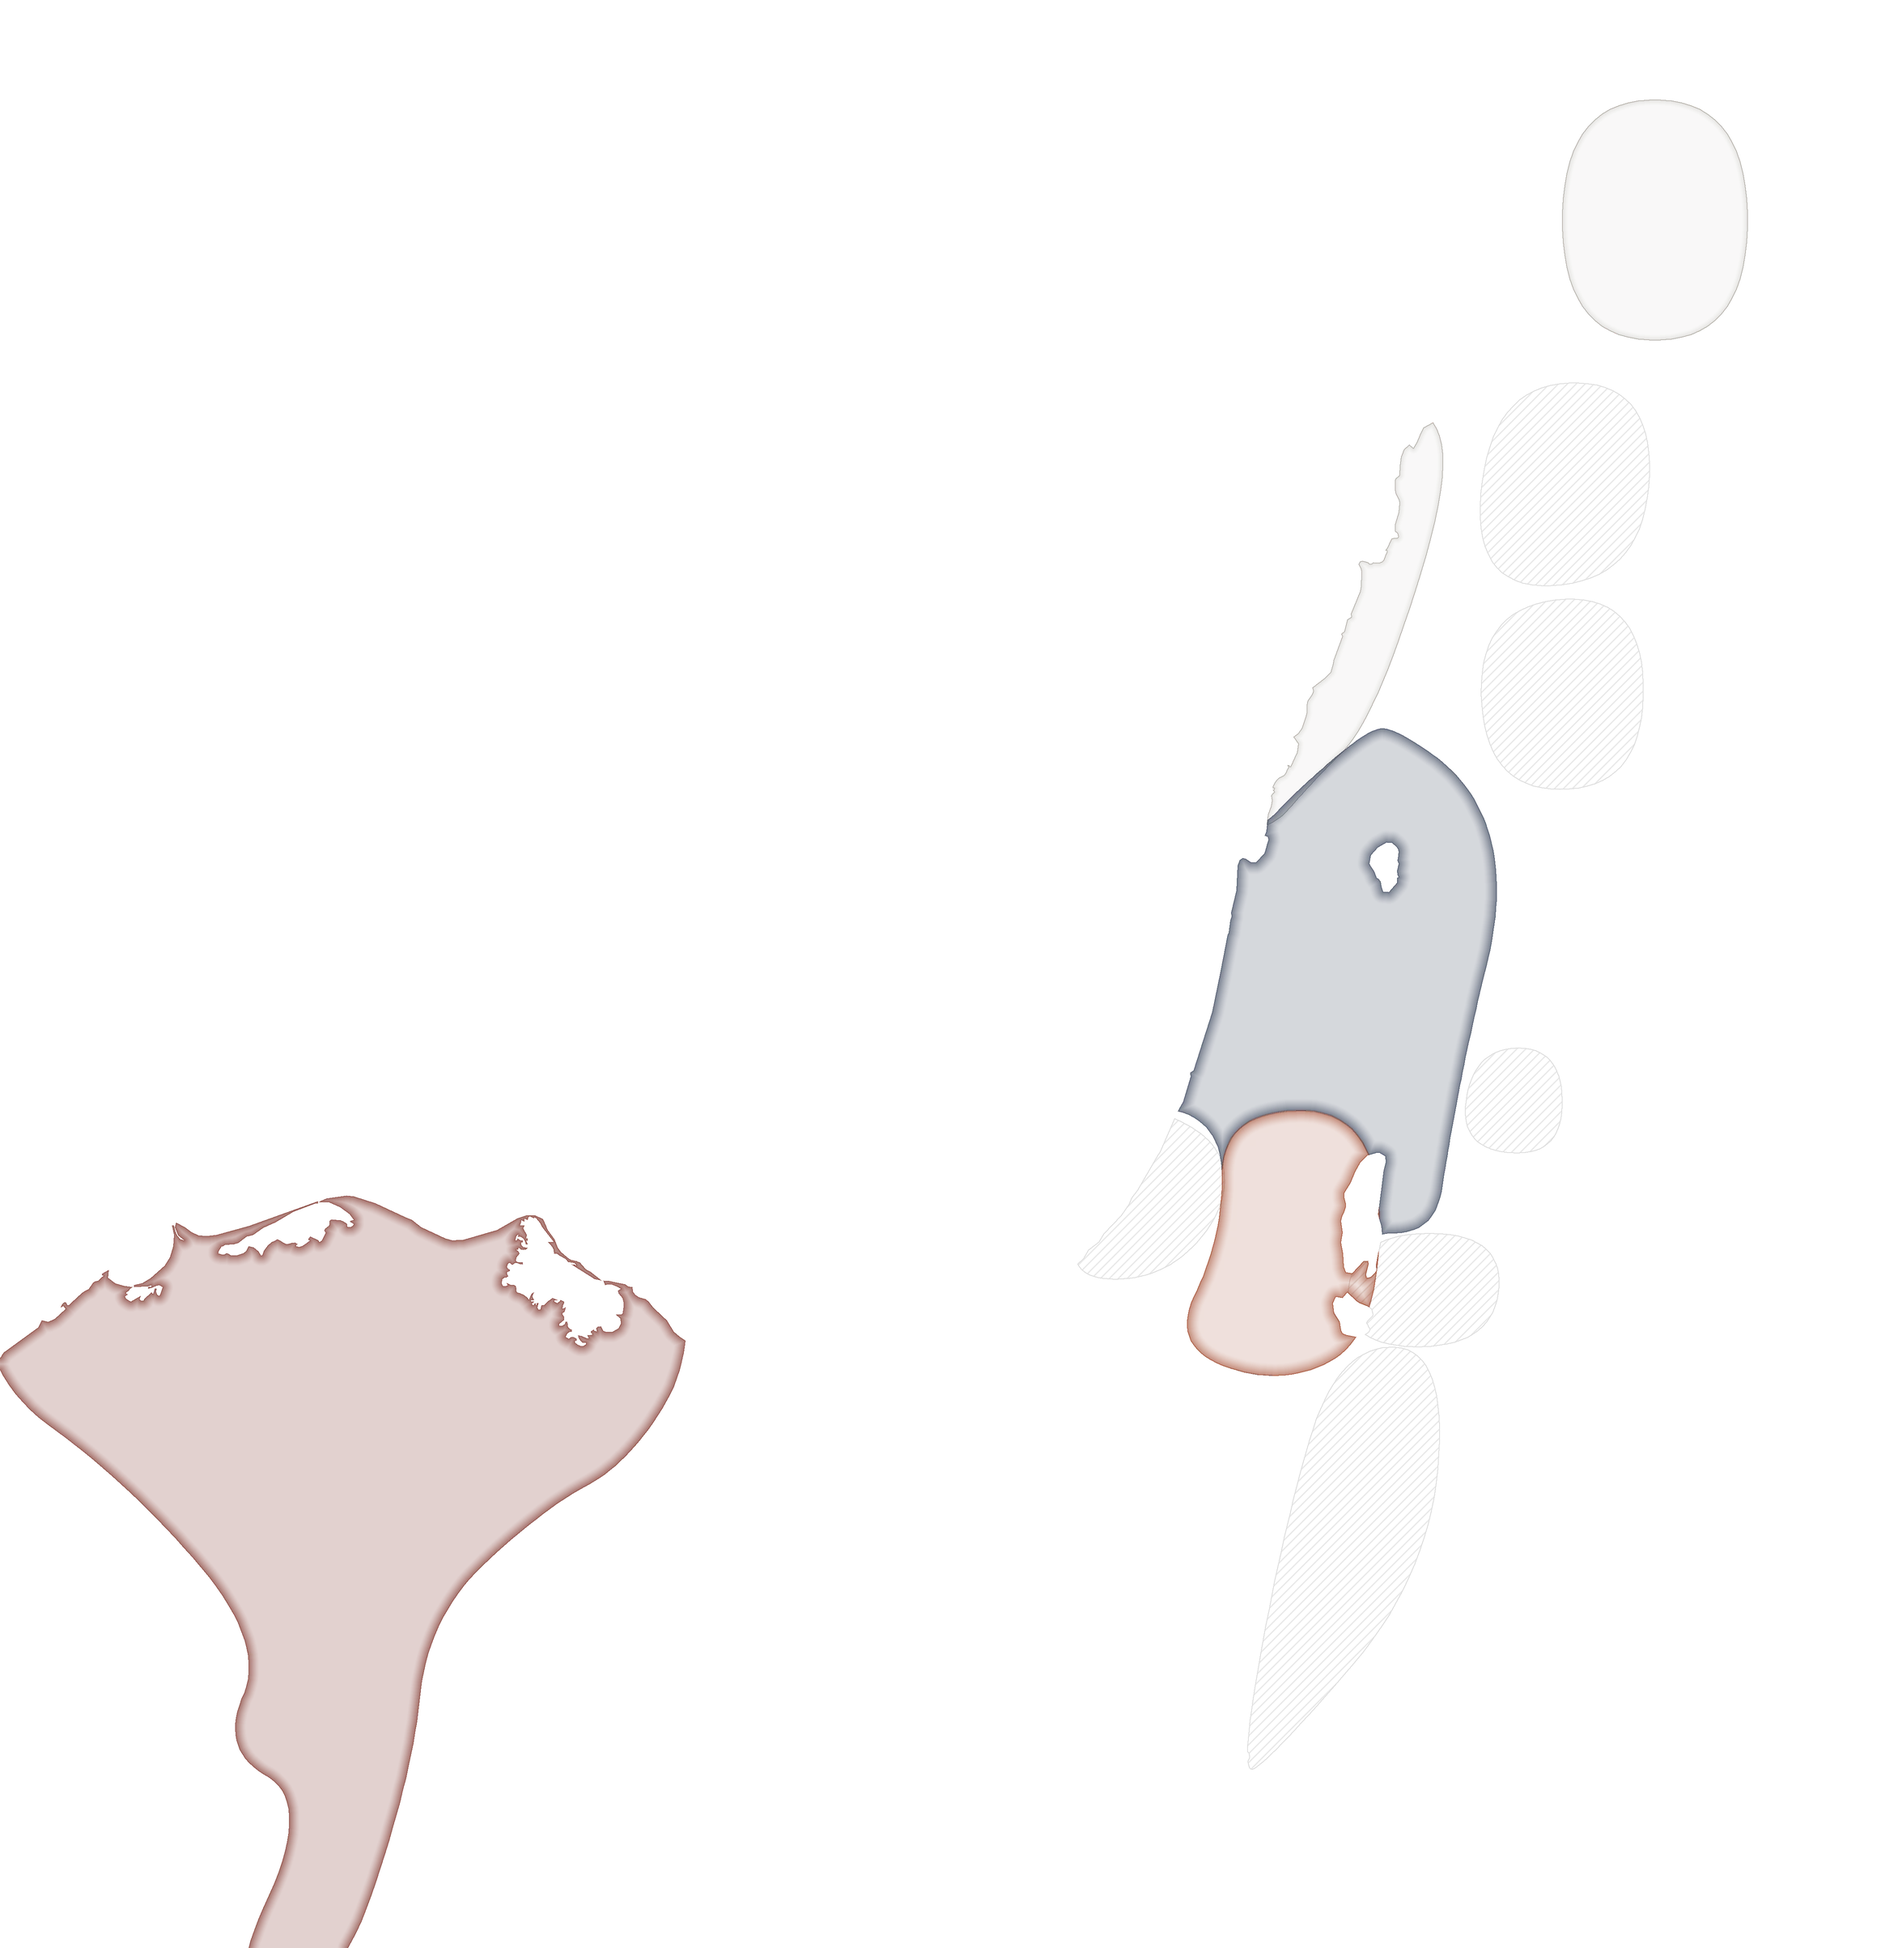
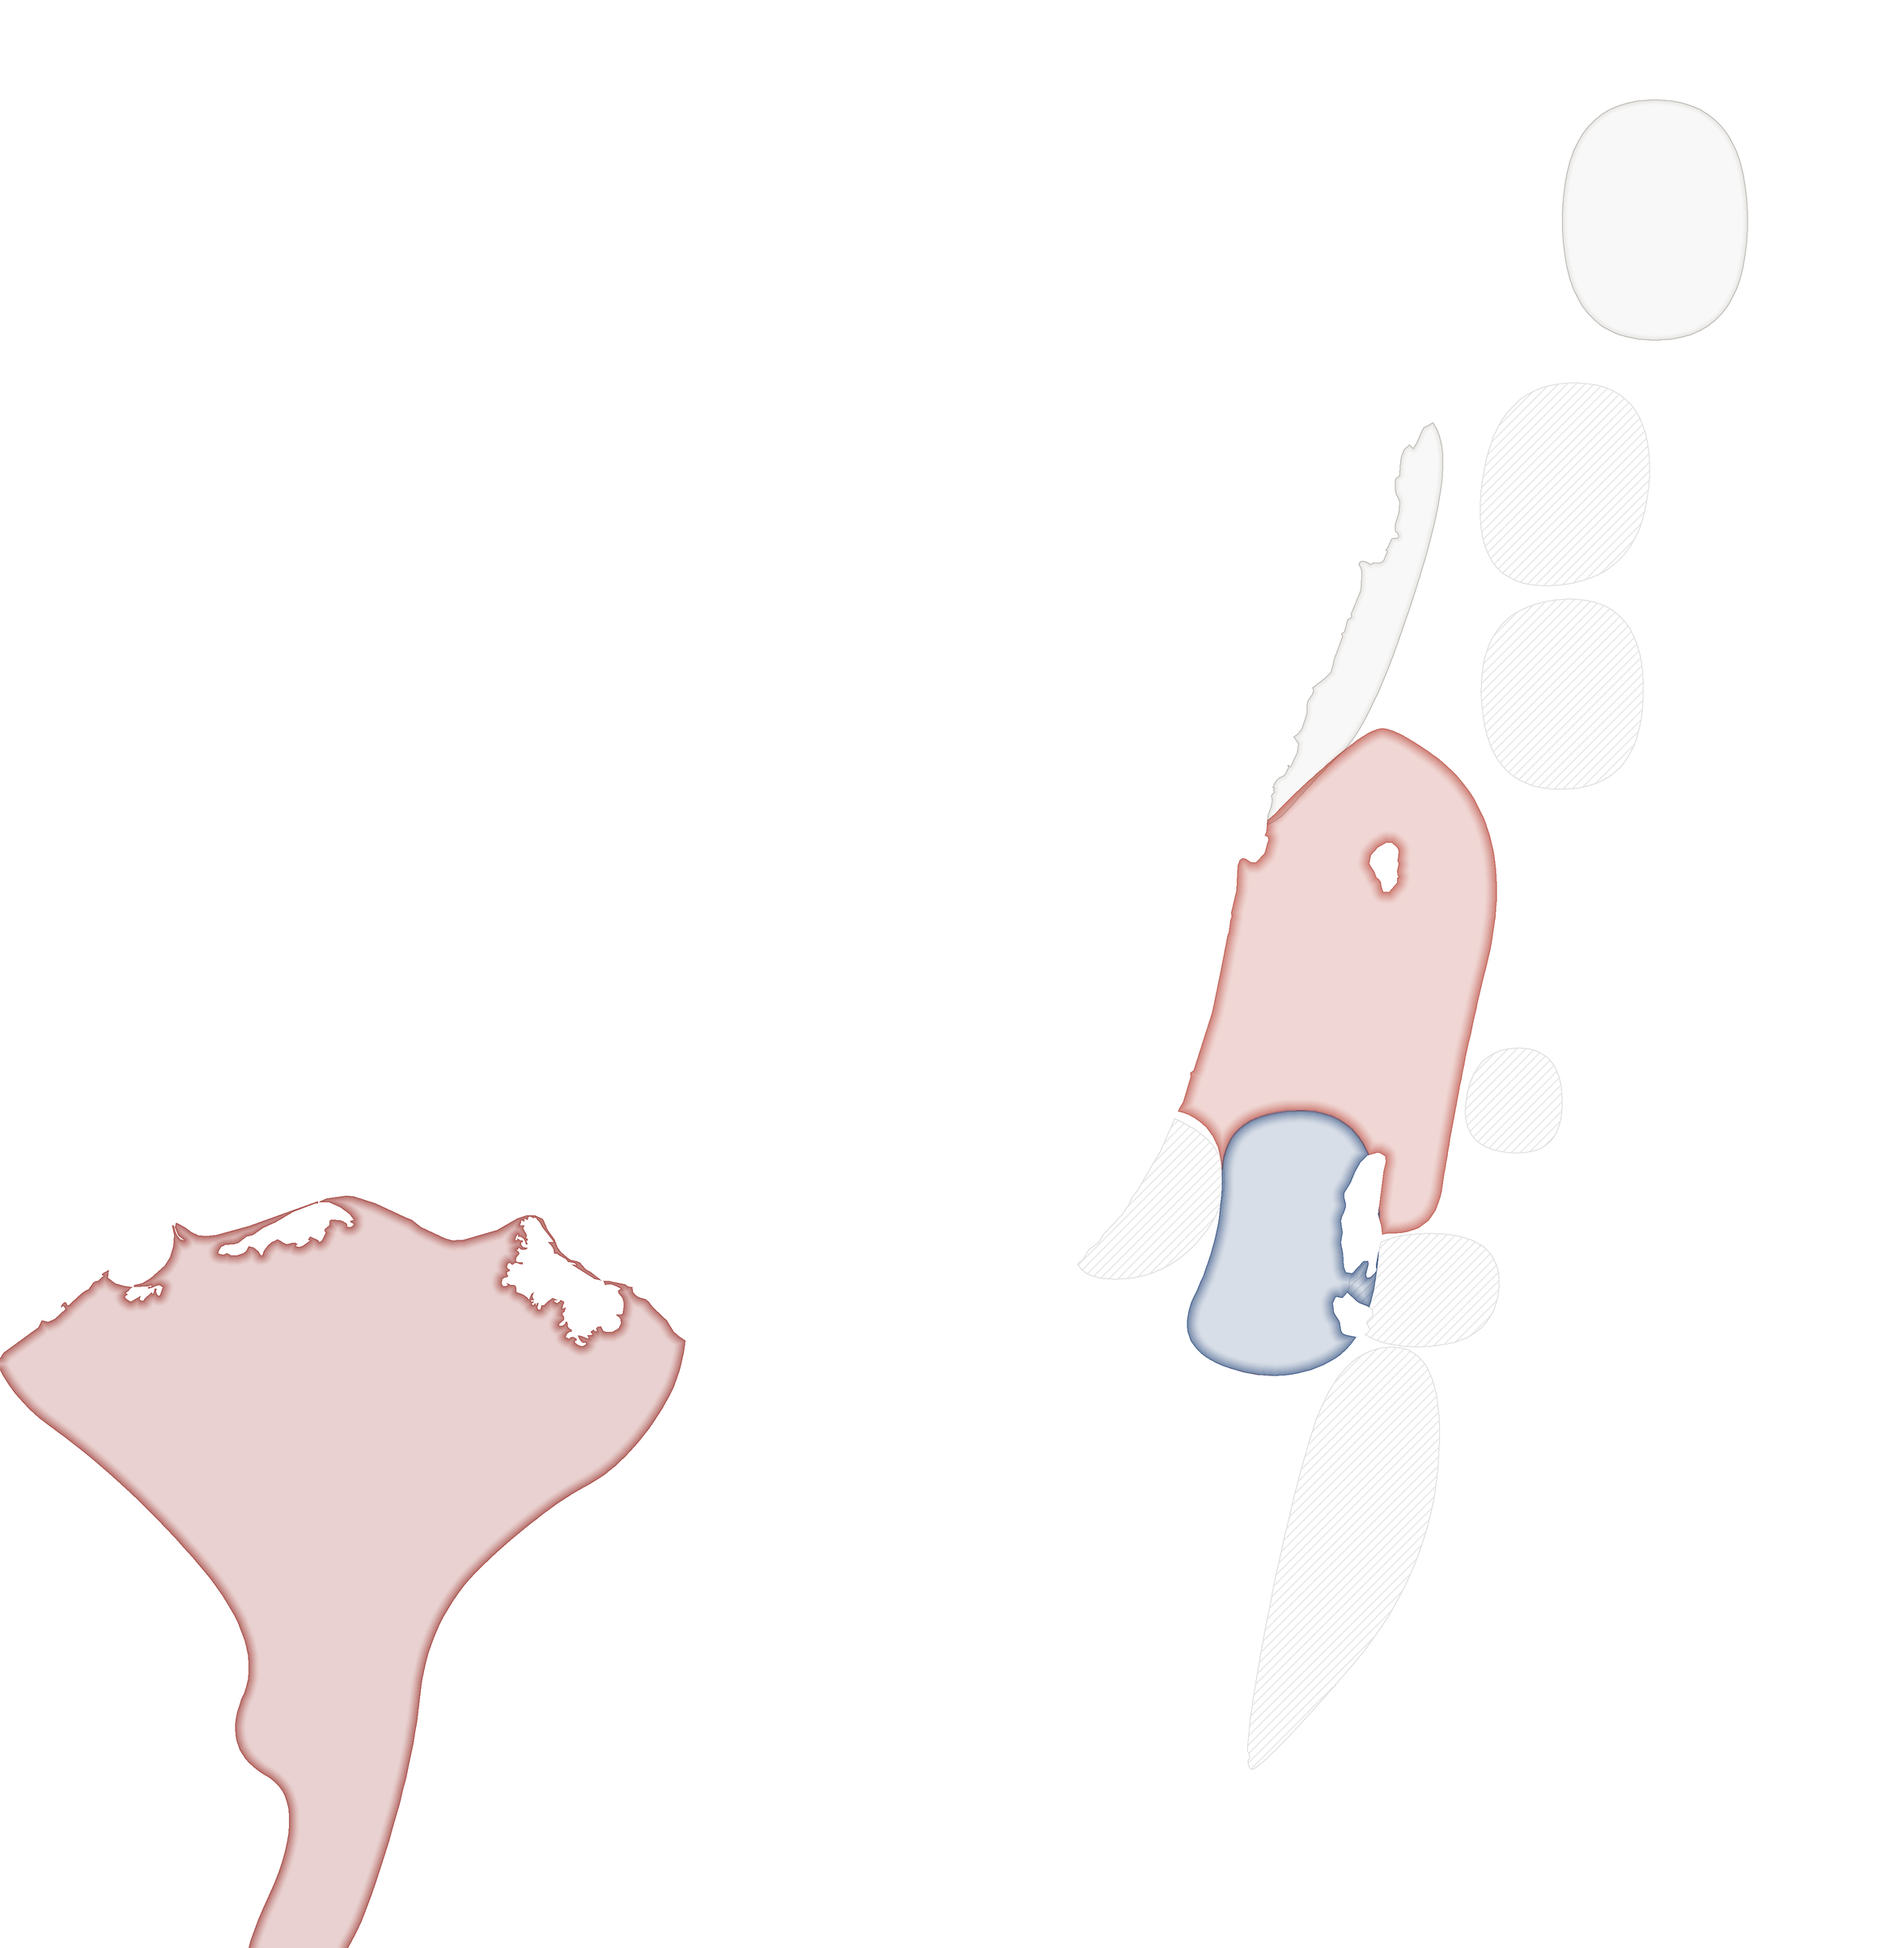
צבעים: הממלכה בכחול, אויבים באדום, סדקים בכתום
Claude-Session: https://claude.ai/code/session_01TMkXnQFEdiWYuQNCrRXMuX

Changed region(s): [[0.6226, 0.3741, 0.8094, 0.717]]

diff --git a/index.html b/index.html
@@ -843,19 +843,19 @@ body.drawer-open .drawer-back{opacity:1;pointer-events:auto}
 .legend.closed .lgbtn::after{content:" ▸"}
 .legend .sw{display:inline-block;width:14px;height:10px;border-radius:2px;flex:none}
 .legend .ln{display:inline-block;width:18px;height:0;flex:none}
-.plabel{position:absolute;left:0;top:0;transform:translate(-50%,-50%);white-space:nowrap;direction:rtl;font:italic 500 13.5px var(--font-quote);letter-spacing:.03em;color:#6B2A14;text-shadow:0 0 2px rgba(255,250,240,.95),0 0 4px rgba(255,250,240,.9),0 0 8px rgba(255,250,240,.7);pointer-events:none}
-.plabel.k-core{font:500 17px var(--font-quote);letter-spacing:.12em;color:#5E1F0B}
-.plabel.k-rival{font:500 15.5px var(--font-quote);letter-spacing:.1em;color:#1E2433}
-.plabel.k-neutral{color:#4A4436}.plabel.k-gone{color:#5F5E5A}.plabel.k-ally{color:#6A4A06}.plabel.k-enemy{font-style:normal;font-weight:500;letter-spacing:.1em;color:#4E120A}.plabel.k-crack{color:#9B1B10;font-weight:500}
+.plabel{position:absolute;left:0;top:0;transform:translate(-50%,-50%);white-space:nowrap;direction:rtl;font:italic 500 13.5px var(--font-quote);letter-spacing:.03em;color:#2C4A7C;text-shadow:0 0 2px rgba(255,250,240,.95),0 0 4px rgba(255,250,240,.9),0 0 8px rgba(255,250,240,.7);pointer-events:none}
+.plabel.k-core{font:500 17px var(--font-quote);letter-spacing:.12em;color:#16305C}
+.plabel.k-rival{font:500 15.5px var(--font-quote);letter-spacing:.1em;color:#8A2418}
+.plabel.k-neutral{color:#4A4436}.plabel.k-gone{color:#5F5E5A}.plabel.k-ally{color:#6A4A06}.plabel.k-enemy{font-style:normal;font-weight:500;letter-spacing:.1em;color:#6E140E}.plabel.k-crack{color:#A8461A;font-weight:500}
 .terr{transition:opacity .55s ease}
 .story-on .leaflet-tile-pane{filter:saturate(.72) brightness(1.04)}
 @media (prefers-reduced-motion:reduce){.terr{transition:none}}
-.sw-core{background:rgba(154,59,30,.35);border:1.5px solid #9A3B1E}
-.sw-enemy{background:rgba(110,26,16,.4);border:1.5px solid #6E1A10}
-.sw-rival{background:rgba(47,58,82,.4);border:1.5px solid #2F3A52}
+.sw-core{background:rgba(35,67,119,.38);border:1.5px solid #234377}
+.sw-enemy{background:rgba(142,27,20,.42);border:1.5px solid #8E1B14}
+.sw-rival{background:rgba(179,56,43,.38);border:1.5px solid #B3382B}
 .sw-ally{background:rgba(201,151,31,.35);border:1.5px solid #C9971F}
-.sw-vassal{background:repeating-linear-gradient(135deg,rgba(154,59,30,.6) 0 2px,transparent 2px 5px);border:1px solid rgba(154,59,30,.6)}
-.sw-crack{background:repeating-linear-gradient(135deg,rgba(192,57,43,.75) 0 2px,transparent 2px 5px);border:1.5px solid #C0392B}
+.sw-vassal{background:repeating-linear-gradient(135deg,rgba(35,67,119,.65) 0 2px,transparent 2px 5px);border:1px solid rgba(35,67,119,.6)}
+.sw-crack{background:repeating-linear-gradient(135deg,rgba(224,102,43,.8) 0 2px,transparent 2px 5px);border:1.5px solid #E0662B}
 .sw-gone{background:repeating-linear-gradient(135deg,rgba(107,107,107,.45) 0 2px,transparent 2px 5px);border:1px solid rgba(107,107,107,.4)}
 .llabel{position:absolute;left:0;top:0;transform:translate(-50%,-50%);white-space:nowrap;direction:rtl;font:italic 600 13px var(--font-quote);color:var(--lc);text-shadow:0 0 2px #fff,0 0 4px #fff,0 0 7px rgba(255,255,255,.9);pointer-events:none}
 .ahd{position:absolute;left:0;top:0;width:0;height:0;border-top:7px solid transparent;border-bottom:7px solid transparent;border-left:13px solid #A11F12;transform-origin:50% 50%}
@@ -865,7 +865,8 @@ body.drawer-open .drawer-back{opacity:1;pointer-events:auto}
 .rrow:first-of-type{border-top:0}
 .rk{font-weight:700;font-size:13px;display:flex;align-items:flex-start;gap:6px}
 .rk::before{content:"";width:9px;height:9px;border-radius:50%;margin-top:6px;flex:none;background:var(--c)}
-.r-vassal .rk::before{background:transparent;border:2px dashed var(--c)}
+.r-hold .rk::before{background:#234377}
+.r-vassal .rk::before{background:transparent;border:2px dashed #234377}
 .r-ally .rk::before{background:#E4AC31}
 .r-threat .rk::before{background:#A11F12}
 .r-lost .rk::before{background:#888}
